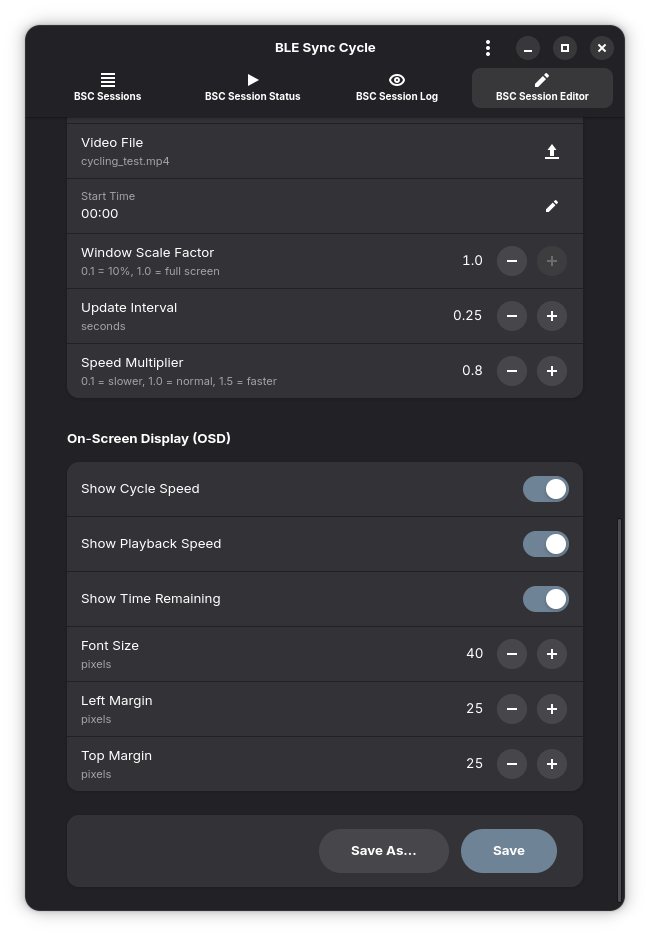
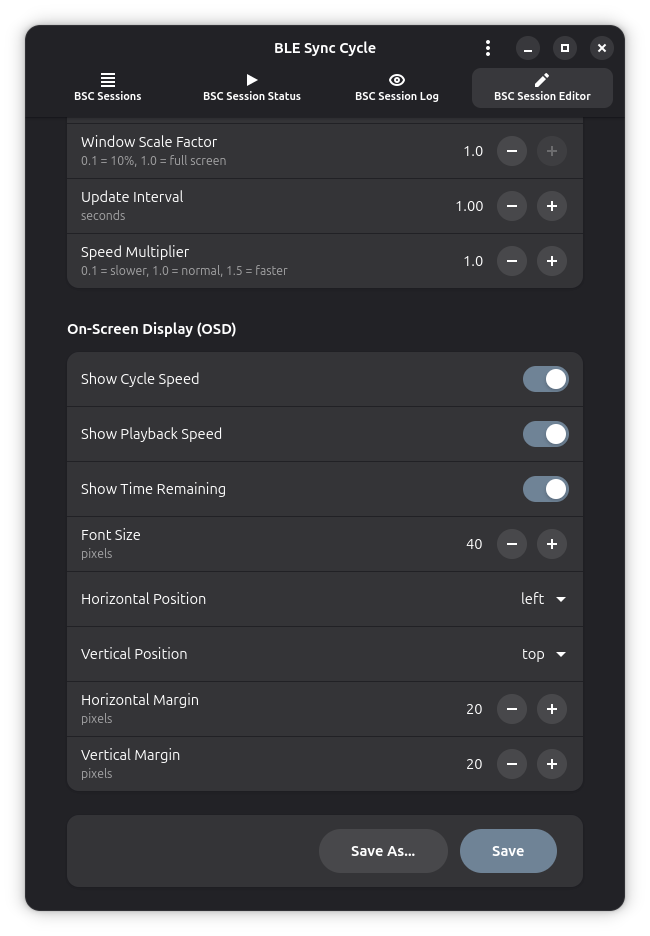
docs(app): :memo: Update to documentation reflecting OSD placement/appearance

diff --git a/wiki/Basic-Usage:-GUI-Mode.md b/wiki/Basic-Usage:-GUI-Mode.md
@@ -155,7 +155,17 @@ The **On-Screen Display (OSD)** section displays the on-screen display (OSD) set
 
 - The **Show Time Remaining** field specifies whether to display the current video time remaining on the on-screen display (OSD). The default value is true
 
-- The remaining fields--**Font Size**, **Left Margin**, and **Top Margin**--are used to configure the font size, left margin, and top margin of the on-screen display (OSD)
+##### OSD Placement and Appearance
+
+- The **Font Size** field specifies the font size of the on-screen display (OSD). This value is between 10 and 200 pixels
+
+- The **Horizontal Position** field specifies the horizontal position of the on-screen display (OSD) on the screen ("left", "center", or "right")
+
+- The **Vertical Position** field specifies the vertical position of the on-screen display (OSD) on the screen ("top", "center", or "bottom")
+
+- The **Horizontal Margin** field specifies the left/right edge margin of the on-screen display (OSD) in pixels. This value is between 0 and 300 pixels
+
+- The **Vertical Margin** field specifies the top/bottom edge margin of the on-screen display (OSD) in pixels. This value is between 0 and 600 pixels
 
 <!-- markdownlint-disable MD033 -->
 <p align="center">
